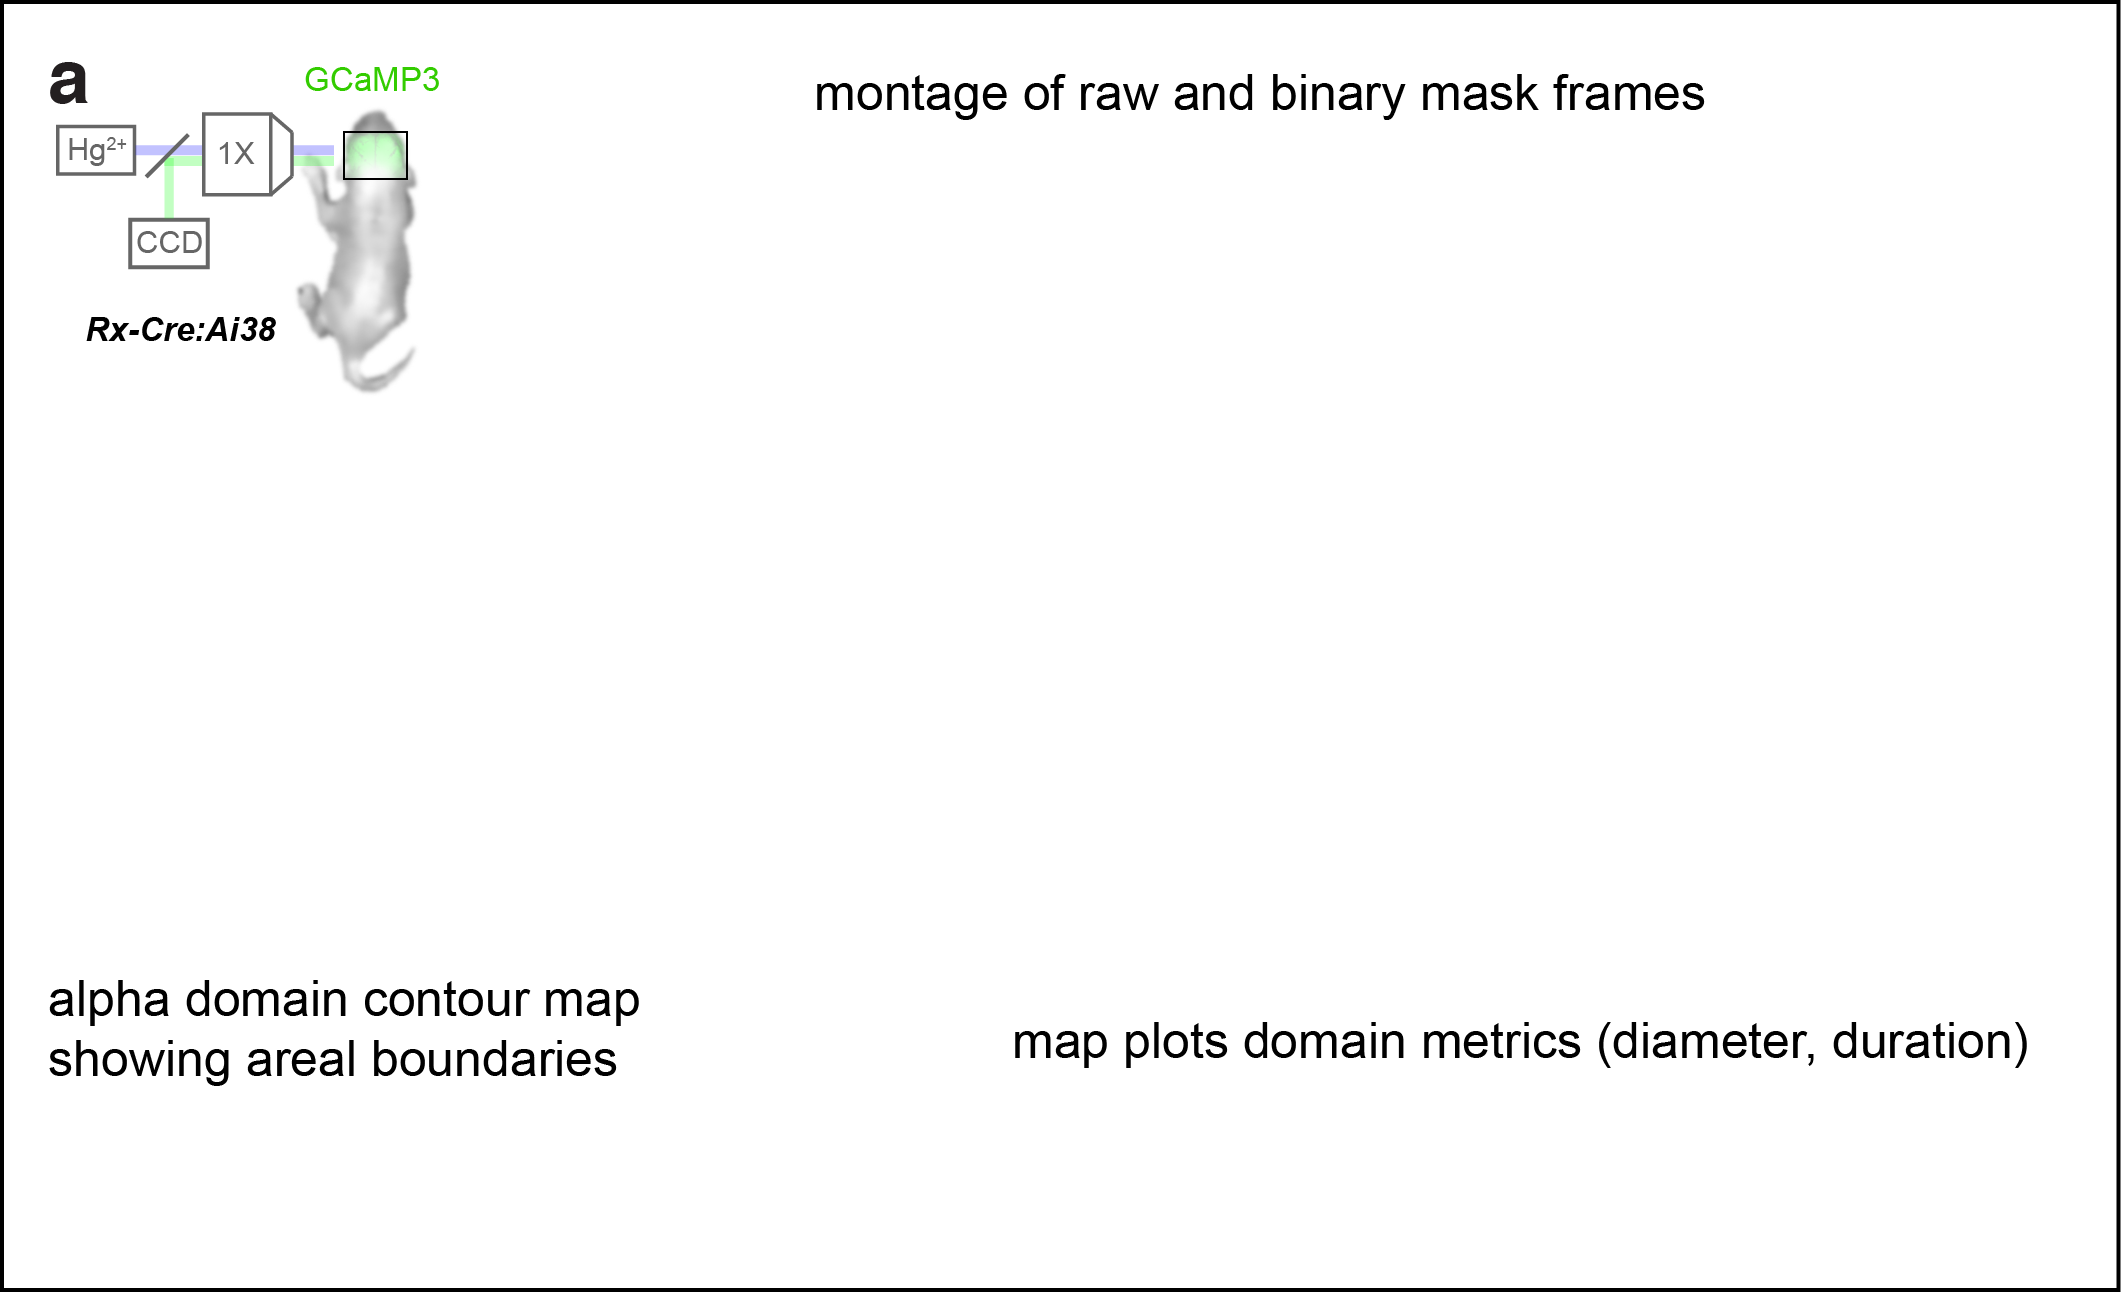
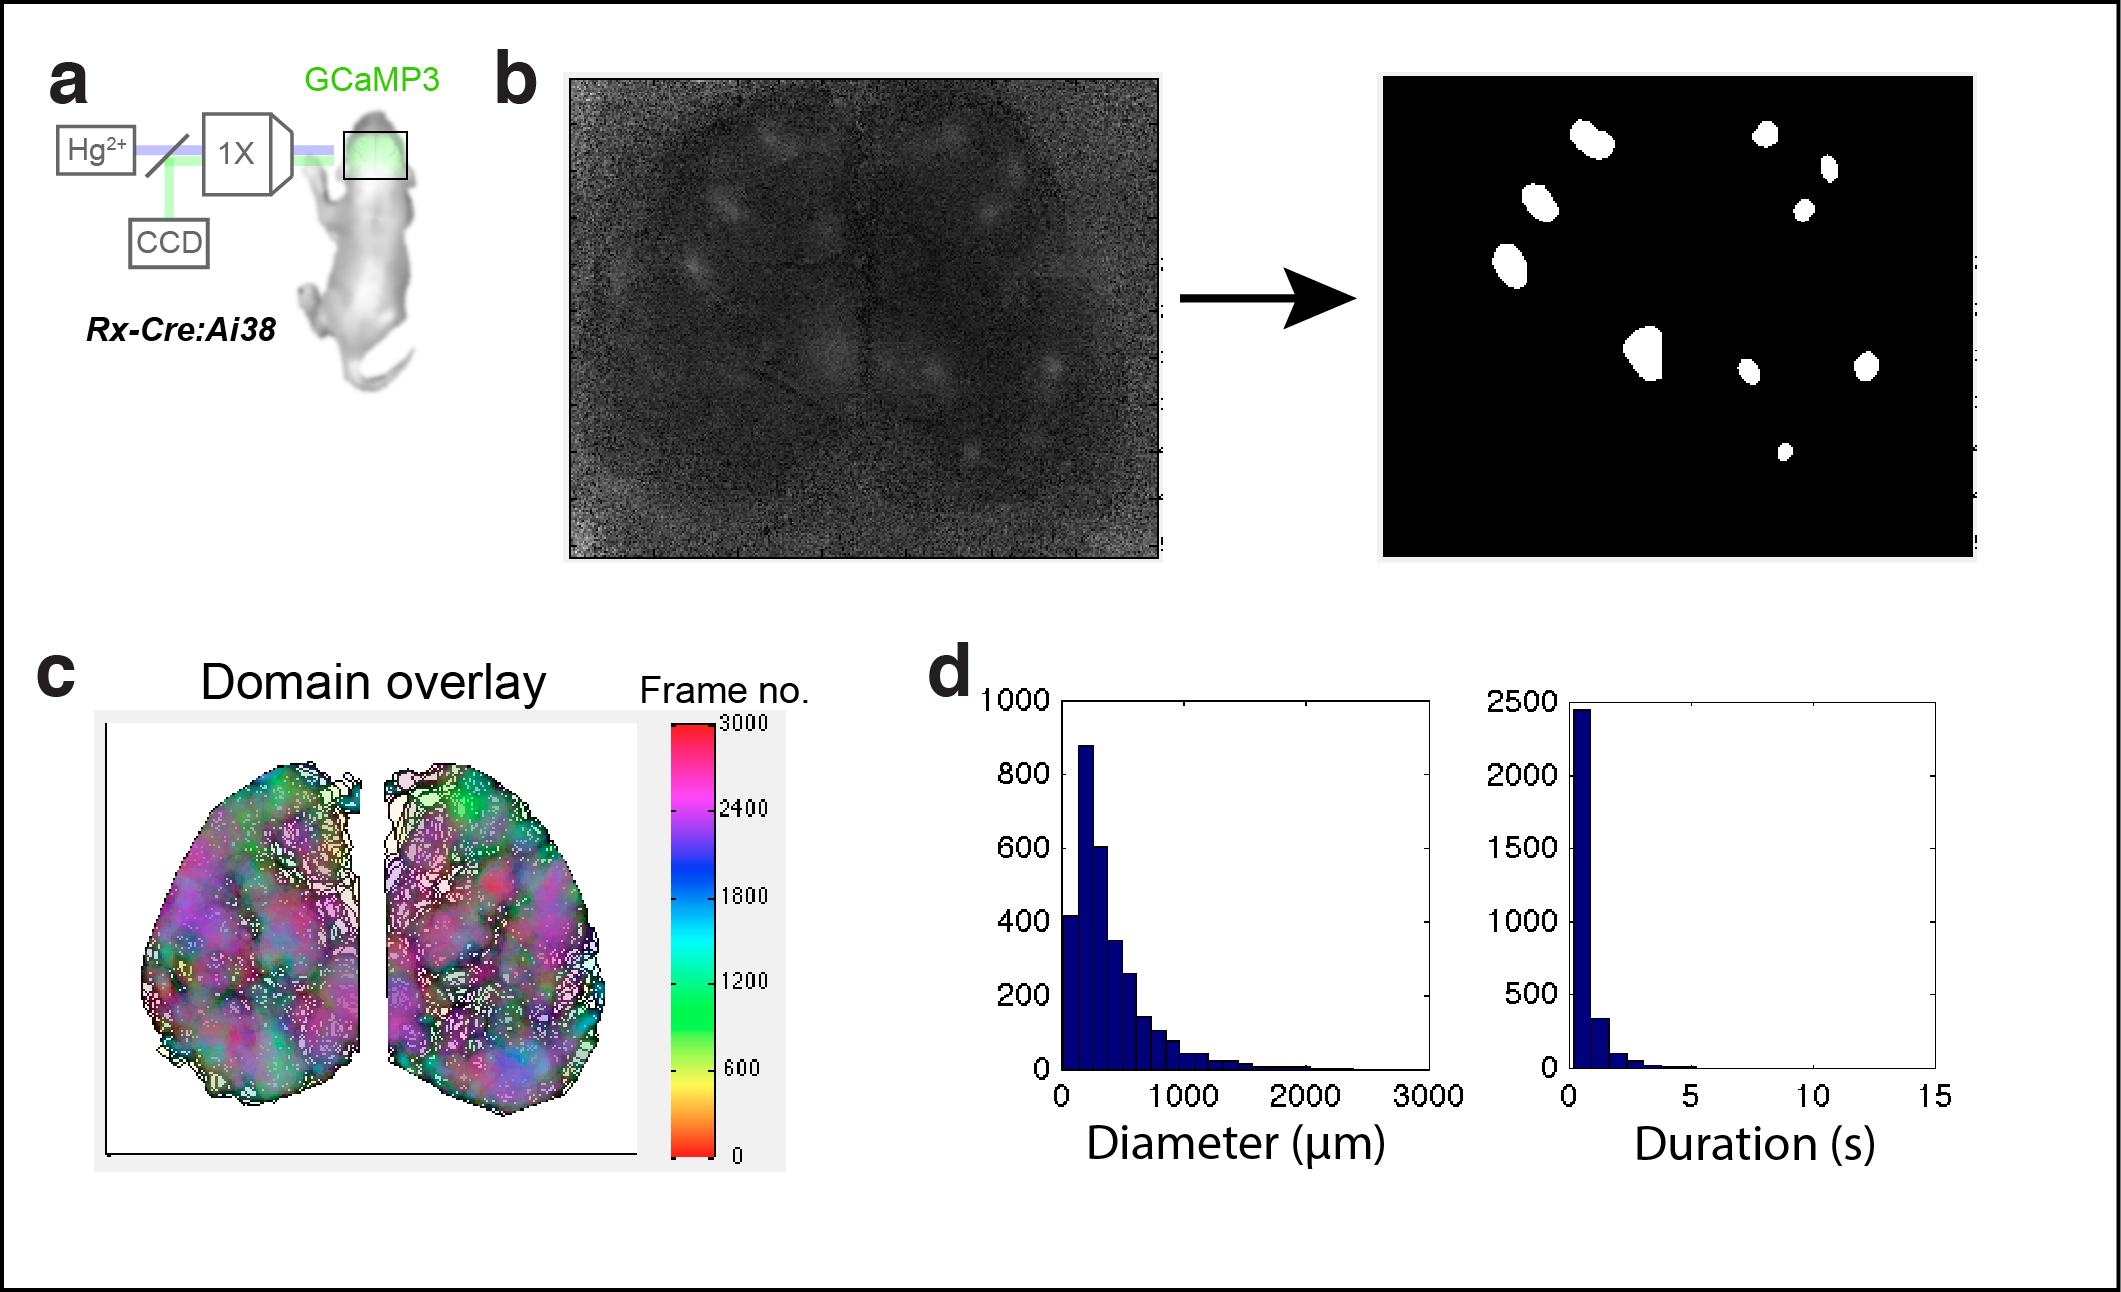
A few small changes and added ref to abstract. Draft fig1 with #results snapshots.

diff --git a/wholeBrain_main.md b/wholeBrain_main.md
@@ -8,14 +8,14 @@ Mesoscale mapping of neural activity across developing cerebral hemispheres
 
 # Abstract  
 
-The cerebral cortex exhibits spontaneous and sensory evoked patterns of activity during fetal and postnatal development that are crucial for the activity-dependent formation and refinement of circuits. Knowing the source and flow of these activity patterns locally and globally is crucial to understanding self-organization in the developing brain. Here we show that neural population activity within newborn mice in vivo is characterized by spatially discrete domains that are coordinated in a state dependent and areal dependent fashion throughout developing isocortex. Whole brain optical recordings from neonatal mice expressing a genetic calcium reporter showed that ongoing activity in the cerebral cortex was characterized by discrete and repetitively active domains measuring hundreds of microns in diameter. Cortical domain activity depended on brain state with periods of localized and global domain synchrony exhibiting positive and negative correlations to motor behavior respectively. Furthermore, domain activity exhibited mirror-symmetric patterns between the hemispheres, with strong correlations between cortical areas that correspond to the default-mode network in primates. This study provides the first comprehensive description of population activity in the developing isocortex at a scope and scale that bridges the microscopic or macroscopic resolutions provided by traditional neurophysiological or neuroimaging techniques. The data provided by mesoscale maps of population dynamics among cortical areas will become critical for engineering repair strategies and brain-machine interfaces for neurodevelopmental disorders.
+The cerebral cortex exhibits spontaneous and sensory evoked patterns of activity during fetal and postnatal development that are crucial for the activity-dependent formation and refinement of circuits [#Katz:1996]. Knowing the source and flow of these activity patterns locally and globally is crucial to understanding self-organization in the developing brain. Here we show that neural population activity within newborn mice in vivo is characterized by spatially discrete domains that are coordinated in a state dependent and areal dependent fashion throughout developing isocortex. Whole brain optical recordings from neonatal mice expressing a genetic calcium reporter showed that ongoing activity in the cerebral cortex was characterized by discrete and repetitively active domains measuring hundreds of microns in diameter. Cortical domain activity depended on brain state with periods of localized and global domain synchrony exhibiting positive and negative correlations to motor behavior respectively. Furthermore, domain activity exhibited mirror-symmetric patterns between the hemispheres, with strong correlations between cortical areas that correspond to the default-mode network in primates. This study provides the first comprehensive description of population activity in the developing isocortex at a scope and scale that bridges the microscopic or macroscopic spatiotemporal resolutions provided by traditional neurophysiological or neuroimaging techniques. The data provided by mesoscale mapping of population dynamics among cortical areas in animal models will be crucial to engineering repair strategies and brain-machine interfaces for neurodevelopmental disorders.
 
 
 
 
 # Introduction  
 
-<!--- some of this intro material could be combined with abstract for a Nature letter (up to 300 words, 200 preferred) --->
+<!--- This should be one paragraph. Some of this intro material could be combined with intro or concl sentences in abstract for a Nature letter (should be referenced and up to 300 words; 200 words preferred) --->
 
 - Activity and development
 - Neural activity, drugs, and birth defects
@@ -50,51 +50,25 @@ The cerebral cortex exhibits spontaneous and sensory evoked patterns of activity
 
 ![**Figure 1.** Calcium domains throughout neonatal mouse isocortex](figure1.png)
 
+<!---Figure 1 metadata
+* neonate_ms_fig.png
+* binary masks: Screen_Shot_2013-03-29_at_12.06.25_PM_crop.png, ..._crop1.png, ..._crop2.png
+* domain map: Screen_Shot_2013-05-14_at_4.11.51_PM_crop.png
+* hists: 120518_07_connComponents_BkgndSubtr60px-20130327-163111domains20130402-151440-crop.png
+--->
 
-
-Domains:  
-![](../figures/Screen_Shot_2013-03-29_at_12.06.25_PM_crop.png)
-
-Domain overlay:  
-![](../figures/Screen_Shot_2013-05-14_at_4.11.51_PM_crop.png)
-
-
-Domain stats:  
-
-key | value | unit
---- | --- | ---
-xmean | 388.6234 | µm
-ymean | 394.9717 | µm
-zmean | 0.63622 | s
-xmax | 3178 | µm
-ymax | 2383.5 | µm
-zmax | 14.6 | s
-xmin | 11.35 | µm
-ymin | 22.7 | µm
-zmin | 0.2 | s
-
-2.8683 domains/sec
-
-
-![](file:///Volumes/Vega/Users/ackman/Data/2photon/120518i/120518_07_connComponents_BkgndSubtr60px-20130327-163111domains20130402-151440.png)
-
-
-
-Temporal correlation of activity between the hemispheres:  
-![](../figures/Screen_Shot_2013-04-30_at_3.02.20_PM.png)
-
-<!--
-![](../figures/Screen_Shot_2013-04-03_at_8.42.49_AM.png)
+<!--- TODO: add a domain centroid size/duration map similar to: ![](../figures/Screen_Shot_2013-04-03_at_8.42.49_AM.png)
 ![](../figures/Screen_Shot_2013-04-03_at_10.04.36_AM.png)
--->
+--->
 
 
 
-![](../figures/Screen_Shot_2013-04-08_at_8.47.19_AM.png)
-
-
-
-
+metric | mean  | min  | max    | unit                  
+------------- | ----- | ---- | ------ | --------------------  
+diameter      | 396.0 | 22.7 | 2383.5 | µm                   
+duration      | 0.6   | 0.2  | 14.6   | s                     
+frequency     | 2.9   |      |        | domains/sec/hemisphere
+[**Table 1: Domain statistics**]
 
 
 
@@ -111,6 +85,16 @@ Temporal correlation of activity between the hemispheres:
 
 
 ![**Figure 2.** Cortical domains are state dependent](figure2.png)
+
+
+<!--- 
+
+
+Temporal correlation of activity between the hemispheres and preceding motor activation:  
+![](../figures/Screen_Shot_2013-04-30_at_3.02.20_PM.png)
+
+hemisphere active fraction traces: ![](../figures/Screen_Shot_2013-04-08_at_8.47.19_AM.png)
+--->
 
 
 ### Cortical activity and motor activity is periodic
